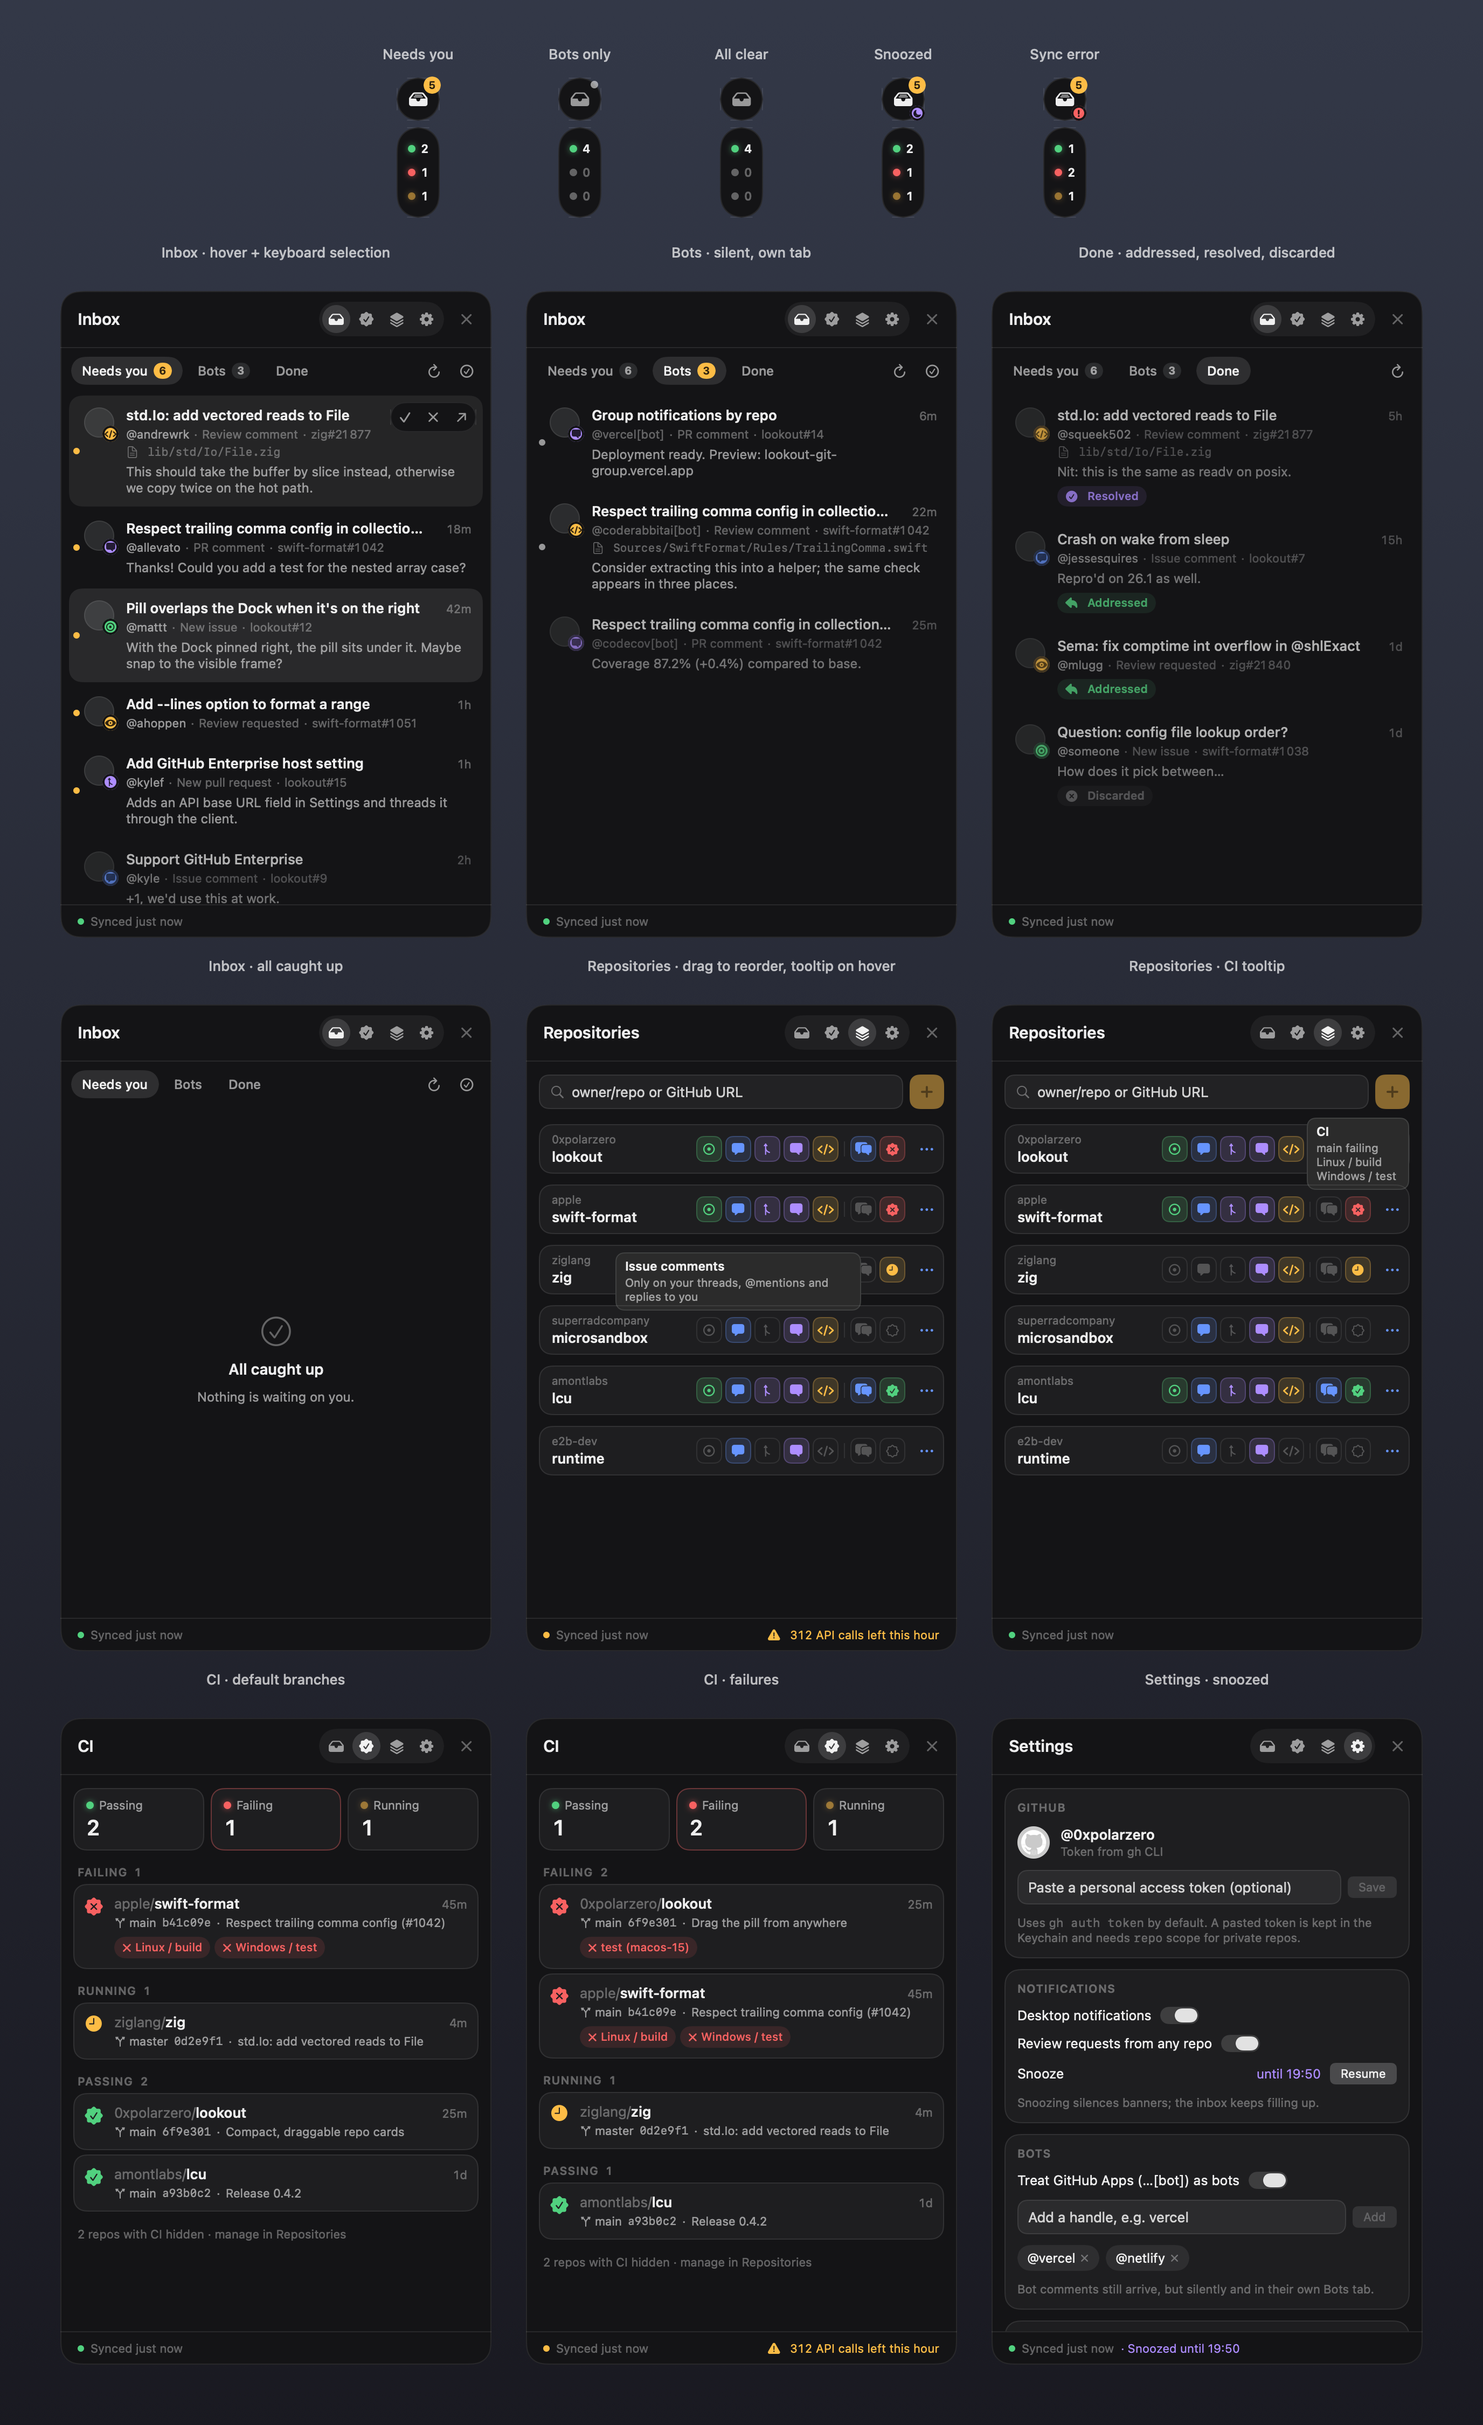
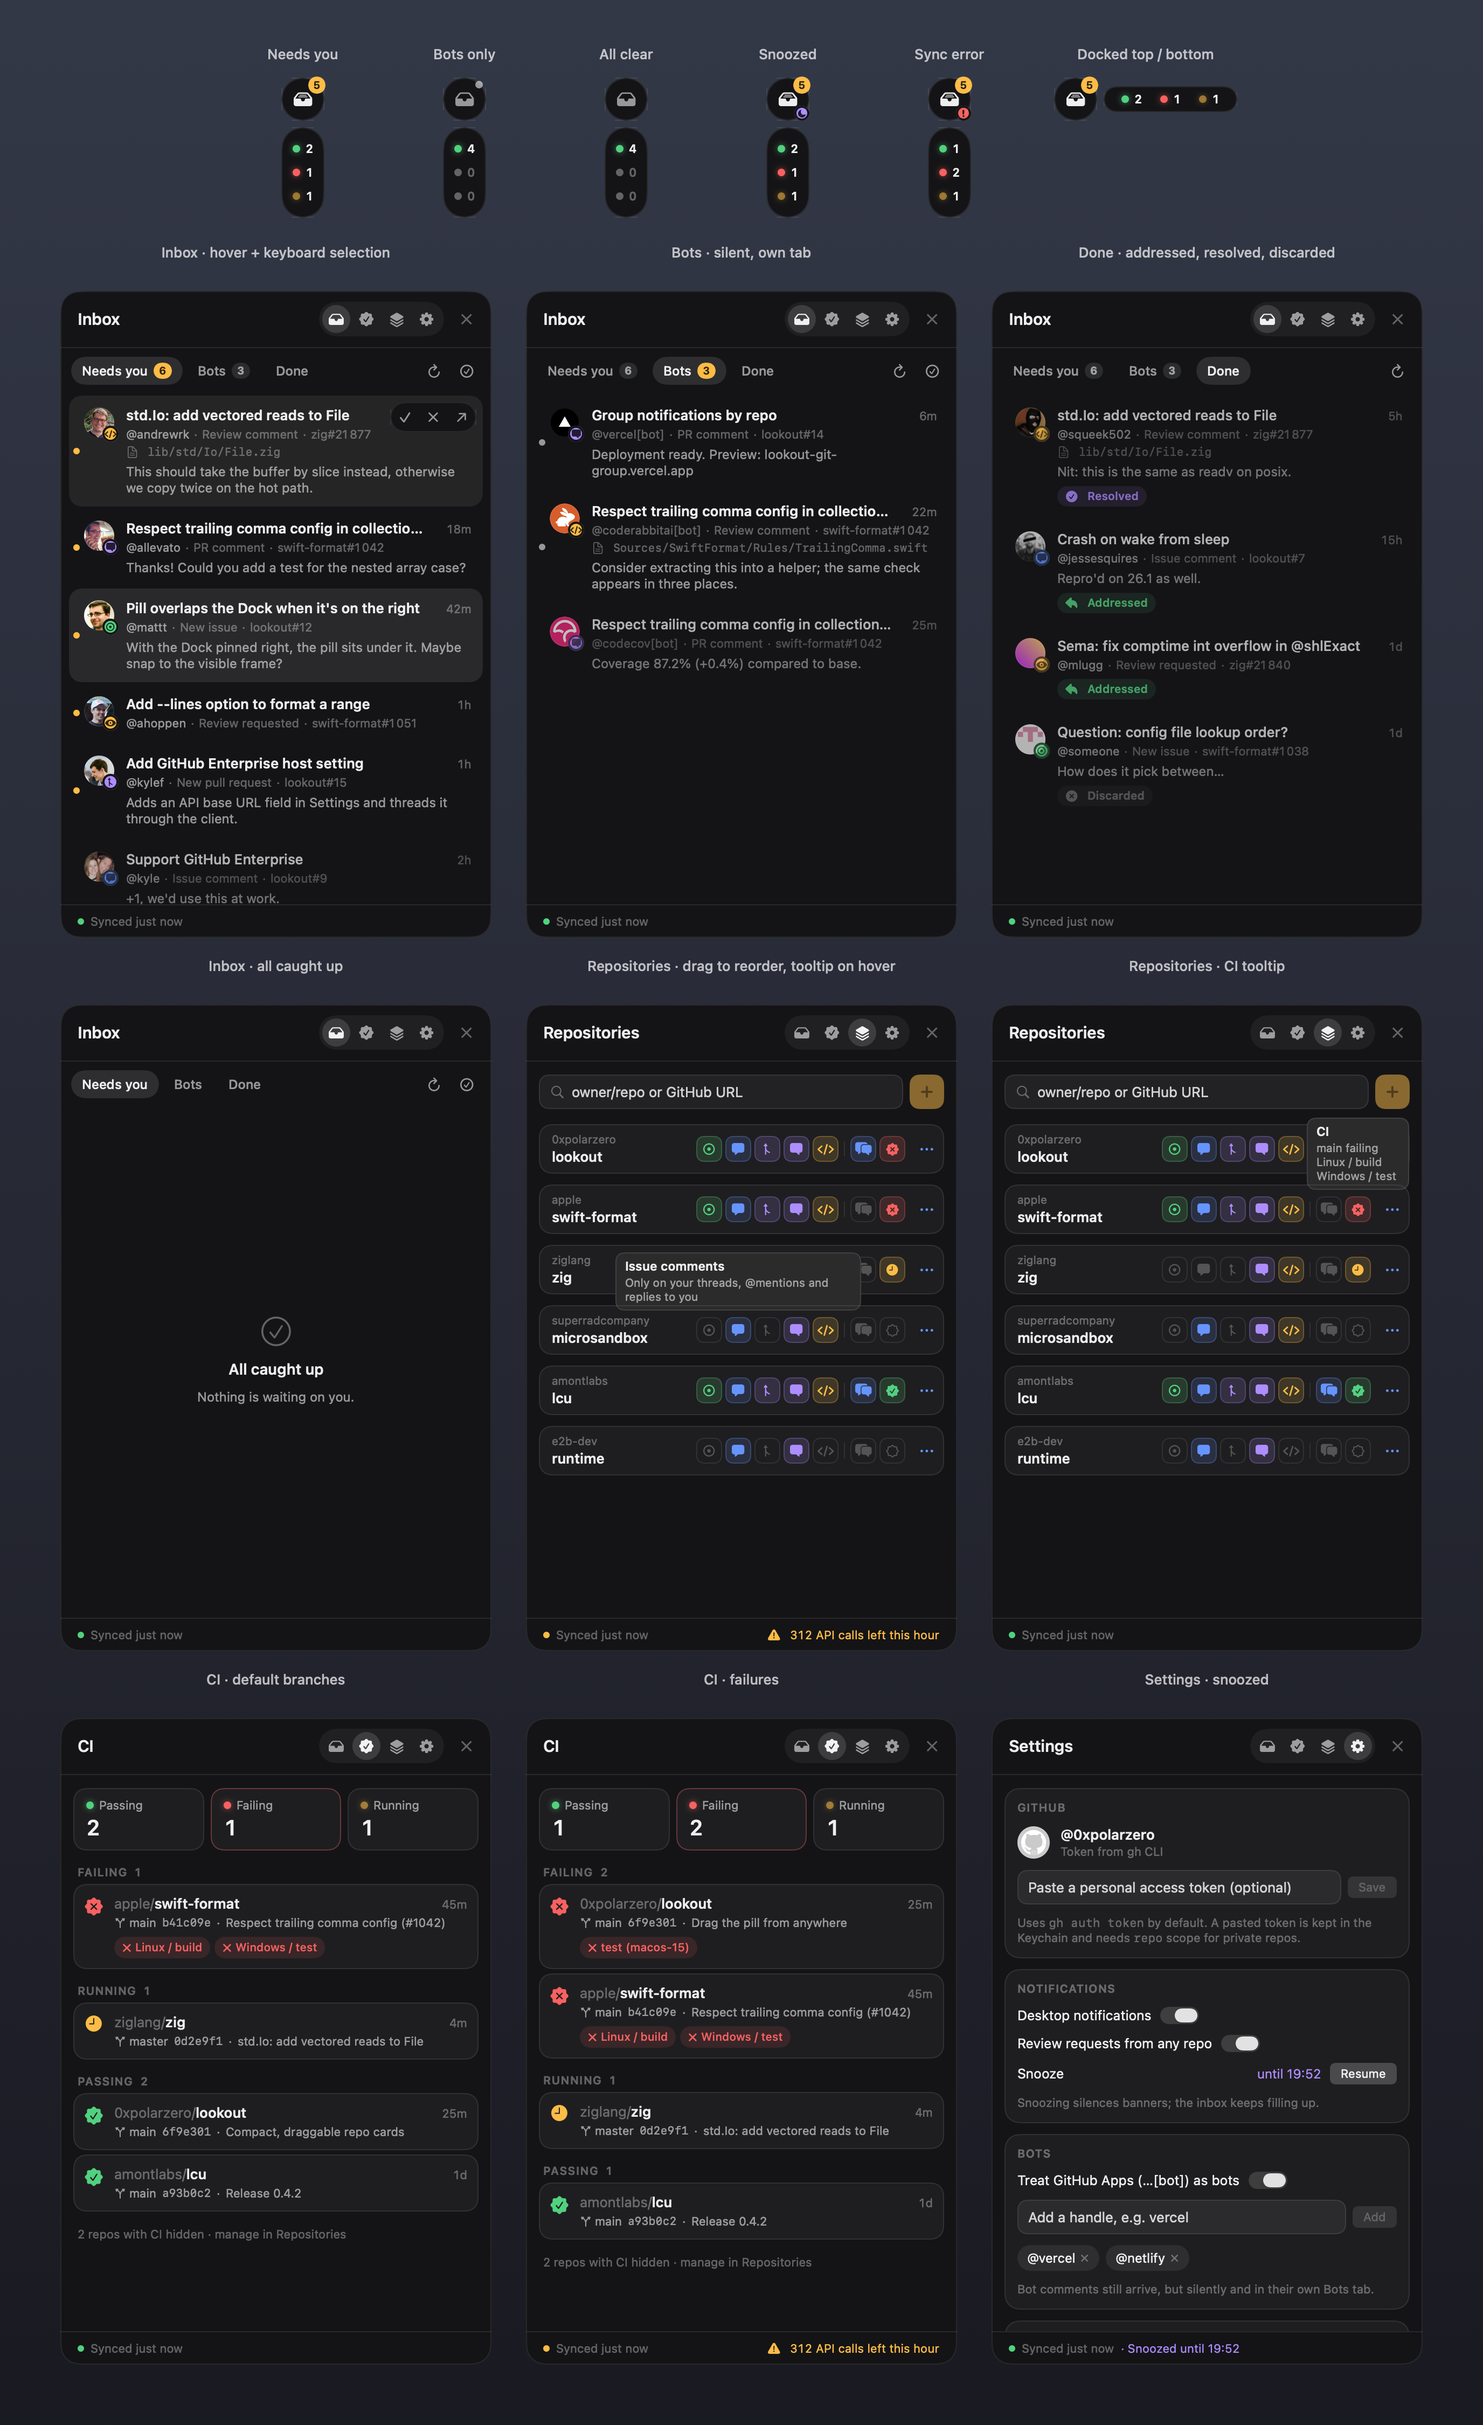
Dock the pill on any screen edge; horizontal on top/bottom

diff --git a/Sources/Lookout/Windows.swift b/Sources/Lookout/Windows.swift
@@ -8,13 +8,29 @@ final class UIState {
     var isOpen = false
     var tab: PanelTab = .inbox
     var filter: InboxFilter = .needsYou
-    var onLeft = UserDefaults.standard.bool(forKey: "pill.onLeft") {
-        didSet { UserDefaults.standard.set(onLeft, forKey: "pill.onLeft") }
+    var edge: DockEdge = DockEdge(rawValue: UserDefaults.standard.string(forKey: "pill.edge") ?? "")
+        ?? (UserDefaults.standard.bool(forKey: "pill.onLeft") ? .left : .right) {
+        didSet { if persists { UserDefaults.standard.set(edge.rawValue, forKey: "pill.edge") } }
     }
-    /// Vertical position of the pill as a fraction of the screen height.
-    var pillY: Double = UserDefaults.standard.object(forKey: "pill.y") as? Double ?? 0.5 {
-        didSet { UserDefaults.standard.set(pillY, forKey: "pill.y") }
+    /// Position of the pill along its edge, as a fraction of that edge's length.
+    var position: Double = UserDefaults.standard.object(forKey: "pill.y") as? Double ?? 0.5 {
+        didSet { if persists { UserDefaults.standard.set(position, forKey: "pill.y") } }
     }
+    /// Off for screenshots, so rendering never moves the real pill.
+    @ObservationIgnored var persists = true
+
+    init() {}
+
+    init(persists: Bool, edge: DockEdge) {
+        self.persists = persists
+        self.edge = edge
+    }
+}
+
+enum DockEdge: String {
+    case left, right, top, bottom
+
+    var isHorizontal: Bool { self == .top || self == .bottom }
 }
 
 class FloatingPanel: NSPanel {
@@ -115,6 +131,7 @@ final class UIController {
     private var pillHost: SizingHostingView<PillView>!
     private var screen: NSScreen = NSScreen.main ?? NSScreen.screens[0]
     private var dragStart: (mouse: NSPoint, origin: NSPoint)?
+    private var snapping = false
     private var monitor: Any?
 
     init(store: Store) {
@@ -157,13 +174,20 @@ final class UIController {
     private func pillTarget() -> NSRect {
         let size = pillHost.fittingSize
         let vf = screen.visibleFrame
-        let x = ui.onLeft ? vf.minX + 2 : vf.maxX - size.width - 2
-        let y = min(max(vf.minY + vf.height * ui.pillY - size.height / 2, vf.minY), vf.maxY - size.height)
-        return NSRect(x: x, y: y, width: size.width, height: size.height)
+        let inset: CGFloat = 2
+        let alongX = min(max(vf.minX + vf.width * ui.position - size.width / 2, vf.minX), vf.maxX - size.width)
+        let alongY = min(max(vf.minY + vf.height * ui.position - size.height / 2, vf.minY), vf.maxY - size.height)
+        let origin = switch ui.edge {
+        case .left: NSPoint(x: vf.minX + inset, y: alongY)
+        case .right: NSPoint(x: vf.maxX - size.width - inset, y: alongY)
+        case .top: NSPoint(x: alongX, y: vf.maxY - size.height - inset)
+        case .bottom: NSPoint(x: alongX, y: vf.minY + inset)
+        }
+        return NSRect(origin: origin, size: size)
     }
 
     func layoutPill() {
-        guard dragStart == nil else { return }
+        guard dragStart == nil, !snapping else { return }
         pill.setFrame(pillTarget(), display: true)
         if ui.isOpen { positionPanel() }
     }
@@ -181,14 +205,35 @@ final class UIController {
         dragStart = nil
         screen = NSScreen.screens.first { NSMouseInRect(mouse, $0.frame, false) } ?? screen
         let vf = screen.visibleFrame
-        ui.onLeft = pill.frame.midX < vf.midX
-        ui.pillY = min(max((pill.frame.midY - vf.minY) / vf.height, 0.05), 0.95)
-        let target = pillTarget()
-        NSAnimationContext.runAnimationGroup { ctx in
-            ctx.duration = 0.28
-            ctx.timingFunction = CAMediaTimingFunction(name: .easeOut)
-            pill.animator().setFrame(target, display: true)
+        (ui.edge, ui.position) = Self.snap(pill.frame, in: vf)
+        // Let SwiftUI re-lay out the pill (it may have rotated) before measuring the target frame.
+        snapping = true
+        DispatchQueue.main.asyncAfter(deadline: .now() + 0.03) { [weak self] in
+            guard let self else { return }
+            let target = self.pillTarget()
+            NSAnimationContext.runAnimationGroup({ ctx in
+                ctx.duration = 0.28
+                ctx.timingFunction = CAMediaTimingFunction(name: .easeOut)
+                self.pill.animator().setFrame(target, display: true)
+            }, completionHandler: {
+                Task { @MainActor in
+                    self.snapping = false
+                    self.layoutPill()
+                }
+            })
         }
+    }
+
+    /// Closest screen edge to the dropped pill, and where along that edge it sits (0…1).
+    nonisolated static func snap(_ f: NSRect, in vf: NSRect) -> (DockEdge, Double) {
+        let distances: [(DockEdge, CGFloat)] = [
+            (.left, f.midX - vf.minX), (.right, vf.maxX - f.midX), (.top, vf.maxY - f.midY), (.bottom, f.midY - vf.minY),
+        ]
+        let edge = distances.min { $0.1 < $1.1 }!.0
+        let position = edge.isHorizontal
+            ? min(max((f.midX - vf.minX) / vf.width, 0.03), 0.97)
+            : min(max((f.midY - vf.minY) / vf.height, 0.05), 0.95)
+        return (edge, position)
     }
 
     // MARK: Panel
@@ -208,9 +253,15 @@ final class UIController {
         let size = panel.frame.size
         let pad = Self.panelPadding
         let gap: CGFloat = 4
-        let x = ui.onLeft ? pf.maxX + gap - pad : pf.minX - gap - size.width + pad
-        let y = min(max(pf.midY - size.height / 2, vf.minY - pad), vf.maxY - size.height + pad)
-        panel.setFrameOrigin(NSPoint(x: x, y: y))
+        let centeredX = min(max(pf.midX - size.width / 2, vf.minX - pad), vf.maxX - size.width + pad)
+        let centeredY = min(max(pf.midY - size.height / 2, vf.minY - pad), vf.maxY - size.height + pad)
+        let origin = switch ui.edge {
+        case .left: NSPoint(x: pf.maxX + gap - pad, y: centeredY)
+        case .right: NSPoint(x: pf.minX - gap - size.width + pad, y: centeredY)
+        case .top: NSPoint(x: centeredX, y: pf.minY - gap - size.height + pad)
+        case .bottom: NSPoint(x: centeredX, y: pf.maxY + gap - pad)
+        }
+        panel.setFrameOrigin(origin)
     }
 
     private func showPanel() {

diff --git a/Sources/Lookout/Demo.swift b/Sources/Lookout/Demo.swift
@@ -136,10 +136,11 @@ enum Snapshot {
         let actions = PillActions(toggle: { _ in })
         for (label, scenario) in [("Needs you", Demo.Scenario.busy), ("Bots only", .botsOnly), ("All clear", .allClear),
                                   ("Snoozed", .snoozed), ("Sync error", .error)] {
-            host(label, pill: true, PillView(store: store(scenario), ui: UIState(), actions: actions))
+            host(label, pill: true, PillView(store: store(scenario), ui: UIState(persists: false, edge: .right), actions: actions))
         }
+        host("Docked top / bottom", pill: true, PillView(store: store(.busy), ui: UIState(persists: false, edge: .top), actions: actions))
         func panel(_ label: String, _ scenario: Demo.Scenario, _ tab: PanelTab, _ filter: InboxFilter = .needsYou) {
-            let ui = UIState()
+            let ui = UIState(persists: false, edge: .right)
             ui.tab = tab
             ui.filter = filter
             host(label, pill: false, PanelView(store: store(scenario), ui: ui, close: {})
@@ -182,9 +183,9 @@ enum Snapshot {
         let panels = images.filter { !$0.2 }
         let margin: CGFloat = 40, caption: CGFloat = 30, cols = 3
         let panelSize = panels.first?.1.size ?? .zero
-        let pillWidth: CGFloat = 150
+        let pillWidths = pills.map { max(150, $0.1.size.width + 40) }
         let pillHeight = (pills.map { $0.1.size.height }.max() ?? 0) + caption
-        let width = max(CGFloat(cols) * panelSize.width + margin * 2, CGFloat(pills.count) * pillWidth + margin * 2)
+        let width = max(CGFloat(cols) * panelSize.width + margin * 2, pillWidths.reduce(0, +) + margin * 2)
         let rows = (panels.count + cols - 1) / cols
         let height = margin * 2 + pillHeight + 20 + CGFloat(rows) * (panelSize.height + caption)
         let scale: CGFloat = 2
@@ -206,9 +207,10 @@ enum Snapshot {
             image.draw(in: NSRect(x: centerX - size.width / 2, y: height - top - caption - size.height,
                                   width: size.width, height: size.height))
         }
-        let pillsLeft = (width - CGFloat(pills.count) * pillWidth) / 2
-        for (i, p) in pills.enumerated() {
-            draw(p.0, p.1, centerX: pillsLeft + pillWidth * (CGFloat(i) + 0.5), top: margin)
+        var x = (width - pillWidths.reduce(0, +)) / 2
+        for (p, w) in zip(pills, pillWidths) {
+            draw(p.0, p.1, centerX: x + w / 2, top: margin)
+            x += w
         }
         let panelsTop = margin + pillHeight + 20
         let panelsLeft = (width - CGFloat(cols) * panelSize.width) / 2

diff --git a/Sources/Lookout/PillView.swift b/Sources/Lookout/PillView.swift
@@ -8,18 +8,21 @@ struct PillView: View {
     @State private var ripple = false
 
     var body: some View {
-        VStack(spacing: 6) {
+        // Vertical on the left/right edges, horizontal when docked to the top or bottom.
+        let horizontal = ui.edge.isHorizontal
+        let stack = horizontal ? AnyLayout(HStackLayout(spacing: 6)) : AnyLayout(VStackLayout(spacing: 6))
+        stack {
             group {
                 inboxButton
             }
             if !store.ciRepos.isEmpty {
                 group {
-                    VStack(spacing: 6) {
+                    (horizontal ? AnyLayout(HStackLayout(spacing: 4)) : AnyLayout(VStackLayout(spacing: 6))) {
                         ForEach([CIState.success, .failure, .pending], id: \.self) { state in
                             ciCount(state)
                         }
                     }
-                    .padding(.vertical, 8)
+                    .padding(horizontal ? .horizontal : .vertical, horizontal ? 6 : 8)
                     .contentShape(Rectangle())
                     .onTapGesture { actions.toggle(.ci) }
                 }

diff --git a/Tests/LookoutTests/PillDragTests.swift b/Tests/LookoutTests/PillDragTests.swift
@@ -34,3 +34,24 @@ import Testing
         #expect(log().isEmpty)
     }
 }
+
+@Suite struct Snapping {
+    private let screen = NSRect(x: 0, y: 0, width: 1512, height: 944)
+    private func pill(_ x: CGFloat, _ y: CGFloat) -> NSRect { NSRect(x: x - 20, y: y - 20, width: 40, height: 40) }
+
+    @Test func snapsToNearestEdge() {
+        #expect(UIController.snap(pill(30, 500), in: screen).0 == .left)
+        #expect(UIController.snap(pill(1490, 500), in: screen).0 == .right)
+        #expect(UIController.snap(pill(700, 920), in: screen).0 == .top)
+        #expect(UIController.snap(pill(700, 25), in: screen).0 == .bottom)
+    }
+
+    @Test func positionFollowsTheEdge() {
+        let (edge, position) = UIController.snap(pill(378, 920), in: screen)
+        #expect(edge == .top)
+        #expect(abs(position - 0.25) < 0.001)
+        let (side, height) = UIController.snap(pill(1490, 472), in: screen)
+        #expect(side == .right)
+        #expect(abs(height - 0.5) < 0.001)
+    }
+}

diff --git a/Sources/Lookout/SettingsView.swift b/Sources/Lookout/SettingsView.swift
@@ -140,7 +140,7 @@ struct SettingsView: View {
                     .background(RoundedRectangle(cornerRadius: 6).fill(Color.white.opacity(0.07)))
             }
             HStack {
-                hint("Drag the pill to move it to either edge.")
+                hint("Drag the pill to any screen edge.")
                 Spacer()
                 Button("Quit Lookout") { NSApp.terminate(nil) }.controlSize(.small)
             }

diff --git a/README.md b/README.md
@@ -27,7 +27,7 @@ Requires macOS 14+. Auth comes from `gh auth token` (or a token pasted in Settin
 
 ## Using it
 
-- **Pill**: inbox (amber badge = unread items that need you, grey dot = only bots; a purple moon means snoozed, a red mark means a sync error), and CI counts: how many repos are passing (green), failing (red) and running (amber) on main; hover a row to see which, click to open the CI tab. Settings are in the panel. Drag it from anywhere to move it; it snaps to the nearest edge. `⌃⌥Space` toggles the panel.
+- **Pill**: inbox (amber badge = unread items that need you, grey dot = only bots; a purple moon means snoozed, a red mark means a sync error), and CI counts: how many repos are passing (green), failing (red) and running (amber) on main; hover a row to see which, click to open the CI tab. Settings are in the panel. Drag it from anywhere to any screen edge; on the top or bottom it lays out horizontally. `⌃⌥Space` toggles the panel.
 - **Repositories**: add `owner/repo` (suggestions come from repos you own or are involved in) and toggle: issues, issue comments, PRs, PR comments, review comments, CI on the default branch.
 - **Which comments count**: by default only comments that are for you: on issues/PRs you opened, ones that @mention you, or ones posted after you joined the conversation (for review comments: in a review thread you posted in). Turn on **All comments** per repo to get every comment.
 - **CI**: the default branch of every repo with its CI badge on, failing first, with the commit, its title and the failing checks. Click a row to open the commit's checks.
